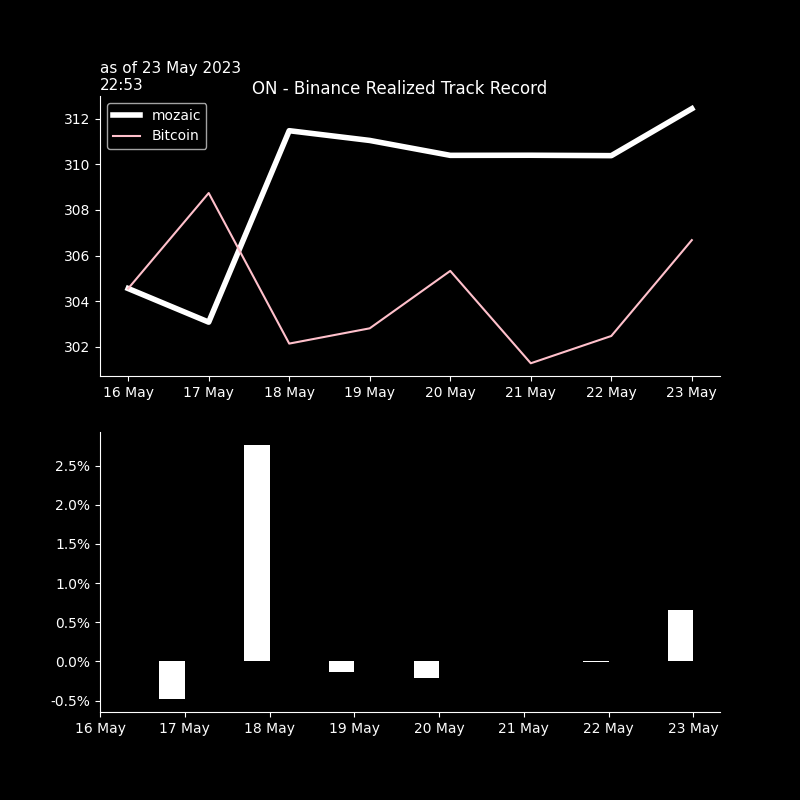
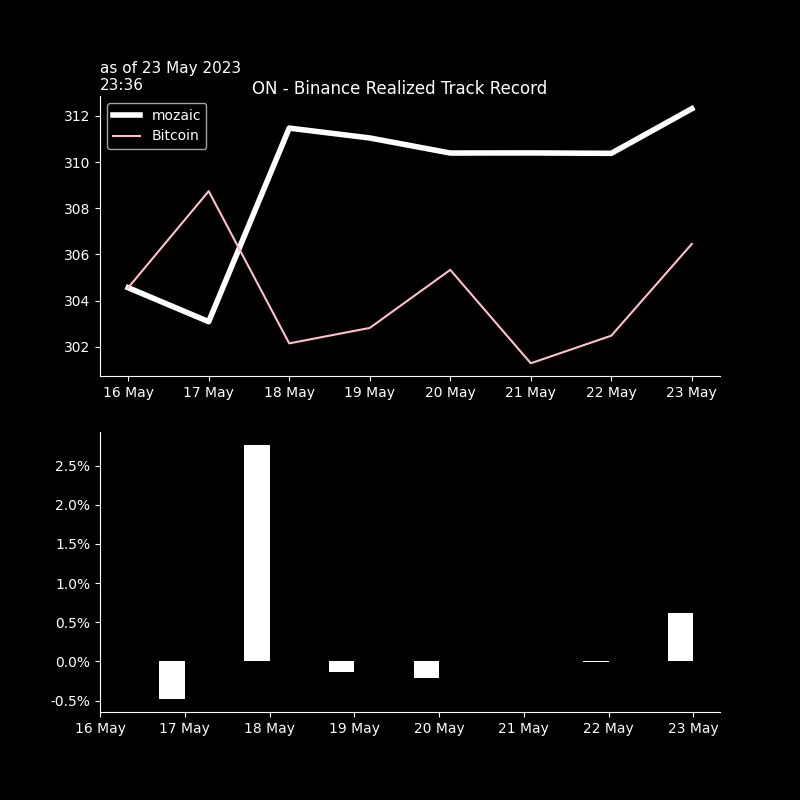
seb_commit

diff --git a/crypto/graphs/bt_trades_book.htmltrade_trades_book.html b/crypto/graphs/bt_trades_book.htmltrade_trades_book.html
@@ -38,54 +38,54 @@
   <tbody>
     <tr>
       <th>XRPUSDT</th>
-      <td>0.4592</td>
-      <td>2023-05-23 18:32:58</td>
-      <td>338.000</td>
-      <td>$155.2</td>
-      <td>$0.03</td>
+      <td>0.4642</td>
+      <td>2023-05-23 22:35:45</td>
+      <td>-422.300</td>
+      <td>$-196.0</td>
+      <td>$0.04</td>
       <td>2.0</td>
-      <td>0.0</td>
-      <td>0.45925</td>
-      <td>2023-05-23 19:31</td>
+      <td>1.7</td>
+      <td>0.46415</td>
+      <td>2023-05-23 23:31</td>
       <td>0.0</td>
       <td>1.0</td>
-      <td>.4593</td>
-      <td>0.0</td>
-      <td>2.0</td>
-    </tr>
-    <tr>
-      <th>ETHUSDT</th>
-      <td>1848.1200</td>
-      <td>2023-05-23 18:32:29</td>
-      <td>0.084</td>
-      <td>$155.2</td>
-      <td>$0.03</td>
-      <td>2.0</td>
-      <td>0.0</td>
-      <td>1847.65500</td>
-      <td>2023-05-23 19:31</td>
+      <td>.4643</td>
       <td>-0.0</td>
-      <td>-3.0</td>
-      <td>1848.41</td>
-      <td>0.0</td>
-      <td>1.0</td>
+      <td>-2.0</td>
     </tr>
     <tr>
       <th>BTCUSDT</th>
-      <td>27141.6000</td>
-      <td>2023-05-23 18:32:50</td>
-      <td>0.006</td>
-      <td>$162.8</td>
+      <td>27181.7000</td>
+      <td>2023-05-23 22:35:43</td>
+      <td>-0.007</td>
+      <td>$-190.3</td>
+      <td>$0.04</td>
+      <td>2.0</td>
+      <td>0.2</td>
+      <td>27182.35000</td>
+      <td>2023-05-23 23:31</td>
+      <td>-0.0</td>
+      <td>-0.0</td>
+      <td>27186.</td>
+      <td>-0.0</td>
+      <td>-2.0</td>
+    </tr>
+    <tr>
+      <th>ETHUSDT</th>
+      <td>1850.7200</td>
+      <td>2023-05-23 22:35:43</td>
+      <td>-0.084</td>
+      <td>$-155.5</td>
       <td>$0.03</td>
       <td>2.0</td>
+      <td>0.2</td>
+      <td>1850.40500</td>
+      <td>2023-05-23 23:31</td>
       <td>0.0</td>
-      <td>27143.55000</td>
-      <td>2023-05-23 19:31</td>
-      <td>0.0</td>
-      <td>1.0</td>
-      <td>27149.3</td>
-      <td>0.1</td>
-      <td>3.0</td>
+      <td>2.0</td>
+      <td>1850.84</td>
+      <td>-0.0</td>
+      <td>-1.0</td>
     </tr>
   </tbody>
 </table>

diff --git a/crypto/graphs/bt_trades_pnlD_recap.htmltrade_trades_pnlD_recap.html b/crypto/graphs/bt_trades_pnlD_recap.htmltrade_trades_pnlD_recap.html
@@ -1,7 +1,7 @@
 <table border="1" class="dataframe">
   <thead>
     <tr style="text-align: right;">
-      <th>23 May 19:33</th>
+      <th>23 May 23:35</th>
       <th>realizedPnl</th>
       <th>PnLvsArrival</th>
       <th>PnLvsLast</th>
@@ -10,21 +10,21 @@
   <tbody>
     <tr>
       <th>in$</th>
-      <td>0.0</td>
-      <td>-0.0</td>
+      <td>2.1</td>
       <td>0.1</td>
+      <td>-0.1</td>
     </tr>
     <tr>
-      <th>in bp 473 traded</th>
-      <td>0 bp</td>
-      <td>-0 bp</td>
+      <th>in bp 541 traded</th>
+      <td>40 bp</td>
+      <td>1 bp</td>
+      <td>-1 bp</td>
+    </tr>
+    <tr>
+      <th>in bp 312 AUMs</th>
+      <td>69 bp</td>
       <td>2 bp</td>
-    </tr>
-    <tr>
-      <th>in bp 310 AUMs</th>
-      <td>0 bp</td>
-      <td>-0 bp</td>
-      <td>3 bp</td>
+      <td>-3 bp</td>
     </tr>
   </tbody>
 </table>

diff --git a/crypto/graphs/bt_trades_recap.htmltrade_trades_recap.html b/crypto/graphs/bt_trades_recap.htmltrade_trades_recap.html
@@ -9,32 +9,32 @@
   <tbody>
     <tr>
       <th>as of</th>
-      <td>23May 18:32&gt;&gt;18:32</td>
+      <td>23May 22:35&gt;&gt;22:35</td>
       <td>#trades: 3</td>
     </tr>
     <tr>
       <th>trade net</th>
-      <td>+473.0</td>
-      <td>+152.4%</td>
+      <td>-542.0</td>
+      <td>-173.5%</td>
     </tr>
     <tr>
       <th>trade gross</th>
-      <td>+473.0</td>
-      <td>+152.4%</td>
+      <td>+542.0</td>
+      <td>+173.5%</td>
     </tr>
     <tr>
       <th>BUY</th>
-      <td>+473.0</td>
-      <td>+152.4%</td>
-    </tr>
-    <tr>
-      <th>SELL</th>
       <td>+0.0</td>
       <td>+0.0%</td>
     </tr>
     <tr>
+      <th>SELL</th>
+      <td>-542.0</td>
+      <td>-173.5%</td>
+    </tr>
+    <tr>
       <th>fees</th>
-      <td>$ 0.095</td>
+      <td>$ 0.108</td>
       <td>2.0bp</td>
     </tr>
   </tbody>
